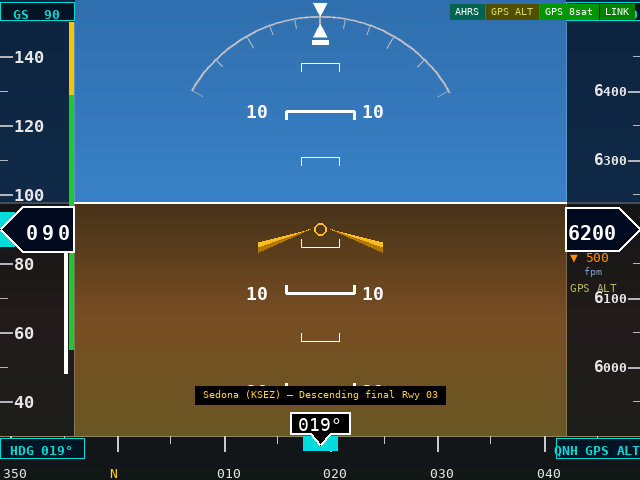
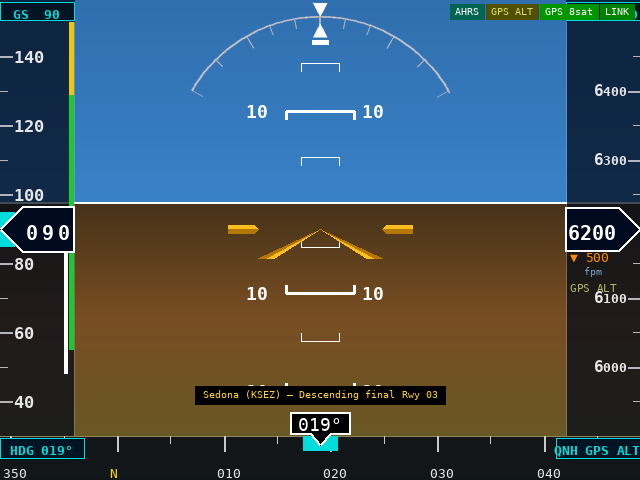
Replace aircraft symbol with swept delta wing + engine nacelles
Implements the SVG reference design from Docs/: a swept delta wing
with two-tone amber shading (inner brighter, outer darker) and engine
nacelles at the wing tips. Removes the old outward triangles and
center dot ring. No velocity vector circle yet — placeholder for future.

https://claude.ai/code/session_017SH8gTHM3ctk1qfSPqffyG

Changed region(s): [[0.4062, 0.4688, 0.6562, 0.5625], [0.3438, 0.4688, 0.4062, 0.5]]

diff --git a/pi_display/pfd.py b/pi_display/pfd.py
@@ -409,34 +409,34 @@ AMBER      = (255, 190,  30)   # slightly warmer than YELLOW for symbol fill
 AMBER_DARK = (180, 120,   0)   # shadow/outline
 
 def draw_aircraft_symbol(surf):
-    """GI-275 style amber aircraft reference: outward triangles + centre ring."""
-    ws  = 62   # half wingspan (outer tip)
-    gap = 10   # distance from centre to inner base of each triangle
-    h   = 5    # half-height at the triangle base
+    """Swept delta wing aircraft reference with engine nacelles."""
+    # Wing panels — apex at (CX, CY), trailing edge at CY+29
+    li = [(CX, CY), (CX - 54, CY + 29), (CX - 46, CY + 29)]
+    lo = [(CX, CY), (CX - 62, CY + 29), (CX - 54, CY + 29)]
+    ri = [(CX, CY), (CX + 46, CY + 29), (CX + 54, CY + 29)]
+    ro = [(CX, CY), (CX + 54, CY + 29), (CX + 62, CY + 29)]
+    pygame.gfxdraw.filled_polygon(surf, li, AMBER)
+    pygame.gfxdraw.aapolygon(surf, li, AMBER)
+    pygame.gfxdraw.filled_polygon(surf, lo, AMBER_DARK)
+    pygame.gfxdraw.aapolygon(surf, lo, AMBER_DARK)
+    pygame.gfxdraw.filled_polygon(surf, ri, AMBER)
+    pygame.gfxdraw.aapolygon(surf, ri, AMBER)
+    pygame.gfxdraw.filled_polygon(surf, ro, AMBER_DARK)
+    pygame.gfxdraw.aapolygon(surf, ro, AMBER_DARK)
 
-    droop = int((ws - gap) * math.tan(20 * DEG))   # ~19 px dihedral droop at tip
-
-    # Left wing — upper half AMBER, lower half darker, full outline AA
-    l_top  = [(CX - ws, CY - h + droop), (CX - ws, CY + droop),     (CX - gap, CY)]
-    l_bot  = [(CX - ws, CY + droop),     (CX - ws, CY + h + droop), (CX - gap, CY)]
-    l_full = [(CX - ws, CY - h + droop), (CX - ws, CY + h + droop), (CX - gap, CY)]
-    pygame.gfxdraw.filled_polygon(surf, l_top, AMBER)
-    pygame.gfxdraw.filled_polygon(surf, l_bot, AMBER_DARK)
-    pygame.gfxdraw.aapolygon(surf, l_full, AMBER)
-
-    # Right wing — mirror
-    r_top  = [(CX + ws, CY - h + droop), (CX + ws, CY + droop),     (CX + gap, CY)]
-    r_bot  = [(CX + ws, CY + droop),     (CX + ws, CY + h + droop), (CX + gap, CY)]
-    r_full = [(CX + ws, CY - h + droop), (CX + ws, CY + h + droop), (CX + gap, CY)]
-    pygame.gfxdraw.filled_polygon(surf, r_top, AMBER)
-    pygame.gfxdraw.filled_polygon(surf, r_bot, AMBER_DARK)
-    pygame.gfxdraw.aapolygon(surf, r_full, AMBER)
-
-    # Centre reference circle (open ring)
-    pygame.gfxdraw.filled_circle(surf, CX, CY, 6, AMBER)
-    pygame.gfxdraw.aacircle(surf,     CX, CY, 6, AMBER)
-    pygame.gfxdraw.filled_circle(surf, CX, CY, 3, (0, 0, 0, 0))  # hollow centre
-    pygame.gfxdraw.aacircle(surf,     CX, CY, 3, AMBER)
+    # Engine nacelles — at wing-tip x, centered on CY
+    lu = [(CX - 62, CY), (CX - 66, CY - 4), (CX - 92, CY - 4), (CX - 92, CY)]
+    ll = [(CX - 62, CY), (CX - 92, CY),     (CX - 92, CY + 4), (CX - 66, CY + 4)]
+    ru = [(CX + 62, CY), (CX + 66, CY - 4), (CX + 92, CY - 4), (CX + 92, CY)]
+    rl = [(CX + 62, CY), (CX + 92, CY),     (CX + 92, CY + 4), (CX + 66, CY + 4)]
+    pygame.gfxdraw.filled_polygon(surf, lu, AMBER)
+    pygame.gfxdraw.aapolygon(surf, lu, AMBER)
+    pygame.gfxdraw.filled_polygon(surf, ll, AMBER_DARK)
+    pygame.gfxdraw.aapolygon(surf, ll, AMBER_DARK)
+    pygame.gfxdraw.filled_polygon(surf, ru, AMBER)
+    pygame.gfxdraw.aapolygon(surf, ru, AMBER)
+    pygame.gfxdraw.filled_polygon(surf, rl, AMBER_DARK)
+    pygame.gfxdraw.aapolygon(surf, rl, AMBER_DARK)
 
 
 # ── Slip/skid indicator ───────────────────────────────────────────────────────

diff --git a/tools/preview_640x480.py b/tools/preview_640x480.py
@@ -459,19 +459,19 @@ def draw_scene(roll, pitch, hdg, alt, speed, vspeed, ay,
     img = Image.alpha_composite(img.convert('RGBA'), arc_1x).convert('RGB')
     draw = ImageDraw.Draw(img)
 
-    # ── 7. AIRCRAFT SYMBOL — GI-275 style outward triangles + centre ring ────
+    # ── 7. AIRCRAFT SYMBOL — swept delta wings + engine nacelles ─────────────
     AMBER = (255, 190, 30)
     AMBER_DARK = (180, 120, 0)
-    ws = 62; gap = 10; h = 5
-    droop = int((ws - gap) * math.tan(20 * DEG))   # ~19 px dihedral droop at tip
-    # Left wing — upper half lighter, lower half darker (depth shading)
-    draw.polygon([(CX-ws, CY-h+droop), (CX-ws, CY+droop),    (CX-gap, CY)], fill=AMBER)
-    draw.polygon([(CX-ws, CY+droop),   (CX-ws, CY+h+droop),  (CX-gap, CY)], fill=AMBER_DARK)
-    # Right wing — mirror
-    draw.polygon([(CX+ws, CY-h+droop), (CX+ws, CY+droop),    (CX+gap, CY)], fill=AMBER)
-    draw.polygon([(CX+ws, CY+droop),   (CX+ws, CY+h+droop),  (CX+gap, CY)], fill=AMBER_DARK)
-    # Centre ring
-    draw.ellipse([(CX-6, CY-6),(CX+6, CY+6)], outline=AMBER, width=2)
+    # Wing panels — apex at (CX, CY), trailing edge at CY+29
+    draw.polygon([(CX, CY), (CX-54, CY+29), (CX-46, CY+29)], fill=AMBER)       # L inner
+    draw.polygon([(CX, CY), (CX-62, CY+29), (CX-54, CY+29)], fill=AMBER_DARK)  # L outer
+    draw.polygon([(CX, CY), (CX+46, CY+29), (CX+54, CY+29)], fill=AMBER)       # R inner
+    draw.polygon([(CX, CY), (CX+54, CY+29), (CX+62, CY+29)], fill=AMBER_DARK)  # R outer
+    # Engine nacelles — at wing-tip x, centered on CY
+    draw.polygon([(CX-62, CY), (CX-66, CY-4), (CX-92, CY-4), (CX-92, CY)],   fill=AMBER)       # L upper
+    draw.polygon([(CX-62, CY), (CX-92, CY),   (CX-92, CY+4), (CX-66, CY+4)], fill=AMBER_DARK)  # L lower
+    draw.polygon([(CX+62, CY), (CX+66, CY-4), (CX+92, CY-4), (CX+92, CY)],   fill=AMBER)       # R upper
+    draw.polygon([(CX+62, CY), (CX+92, CY),   (CX+92, CY+4), (CX+66, CY+4)], fill=AMBER_DARK)  # R lower
 
     # ── 8. CYAN TAP-BUTTONS ──────────────────────────────────────────────────
     # IAS and ALT bug buttons sit at the TOP of their respective tapes (drawn
